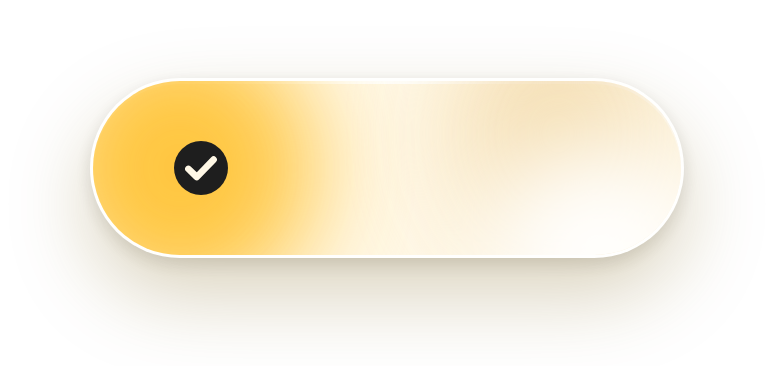
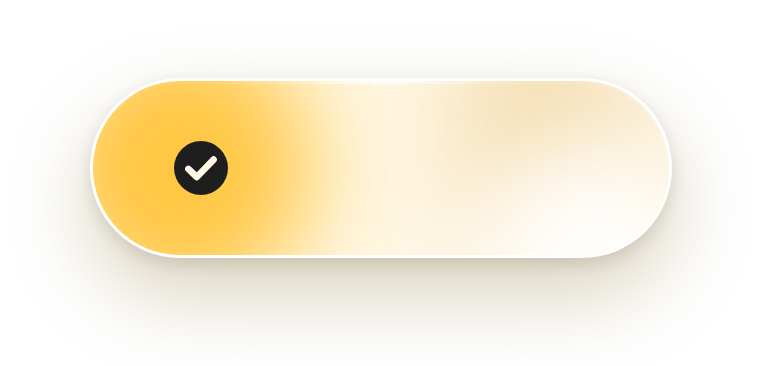
fairdata: tags da capa com a mesma escala e o mesmo tamanho de texto
Claude-Session: https://claude.ai/code/session_011Ha7iT1KABuCteMZGYWYkJ

diff --git a/posts/04-fairdata/render-tags-fundo.js b/posts/04-fairdata/render-tags-fundo.js
@@ -4,9 +4,9 @@
 const path = require('path');
 const { chromium } = require('playwright');
 
-// Textos atuais no Canva: "Mapa de calor", "Segurança psicológica", "COPSOQ" (medidos a 22 px sem escala, com folga).
+// Textos atuais no Canva: "Mapa de calor", "Segurança psicológica", "COPSOQ" (medidos a 22 px sem escala, com folga). No Canva todas usam a mesma escala: 0,727 (texto 16 px).
 // Para outro texto, troque a largura aqui ou passe JSON: node render-tags-fundo.js '{"t-mapa":200}'
-const LARGURA_TEXTO = Object.assign({ 't-mapa': 151, 't-seg': 240, 't-copsoq': 106 }, JSON.parse(process.argv[2] || '{}'));
+const LARGURA_TEXTO = Object.assign({ 't-mapa': 152, 't-seg': 245, 't-copsoq': 102 }, JSON.parse(process.argv[2] || '{}'));
 
 (async () => {
   const browser = await chromium.launch();
